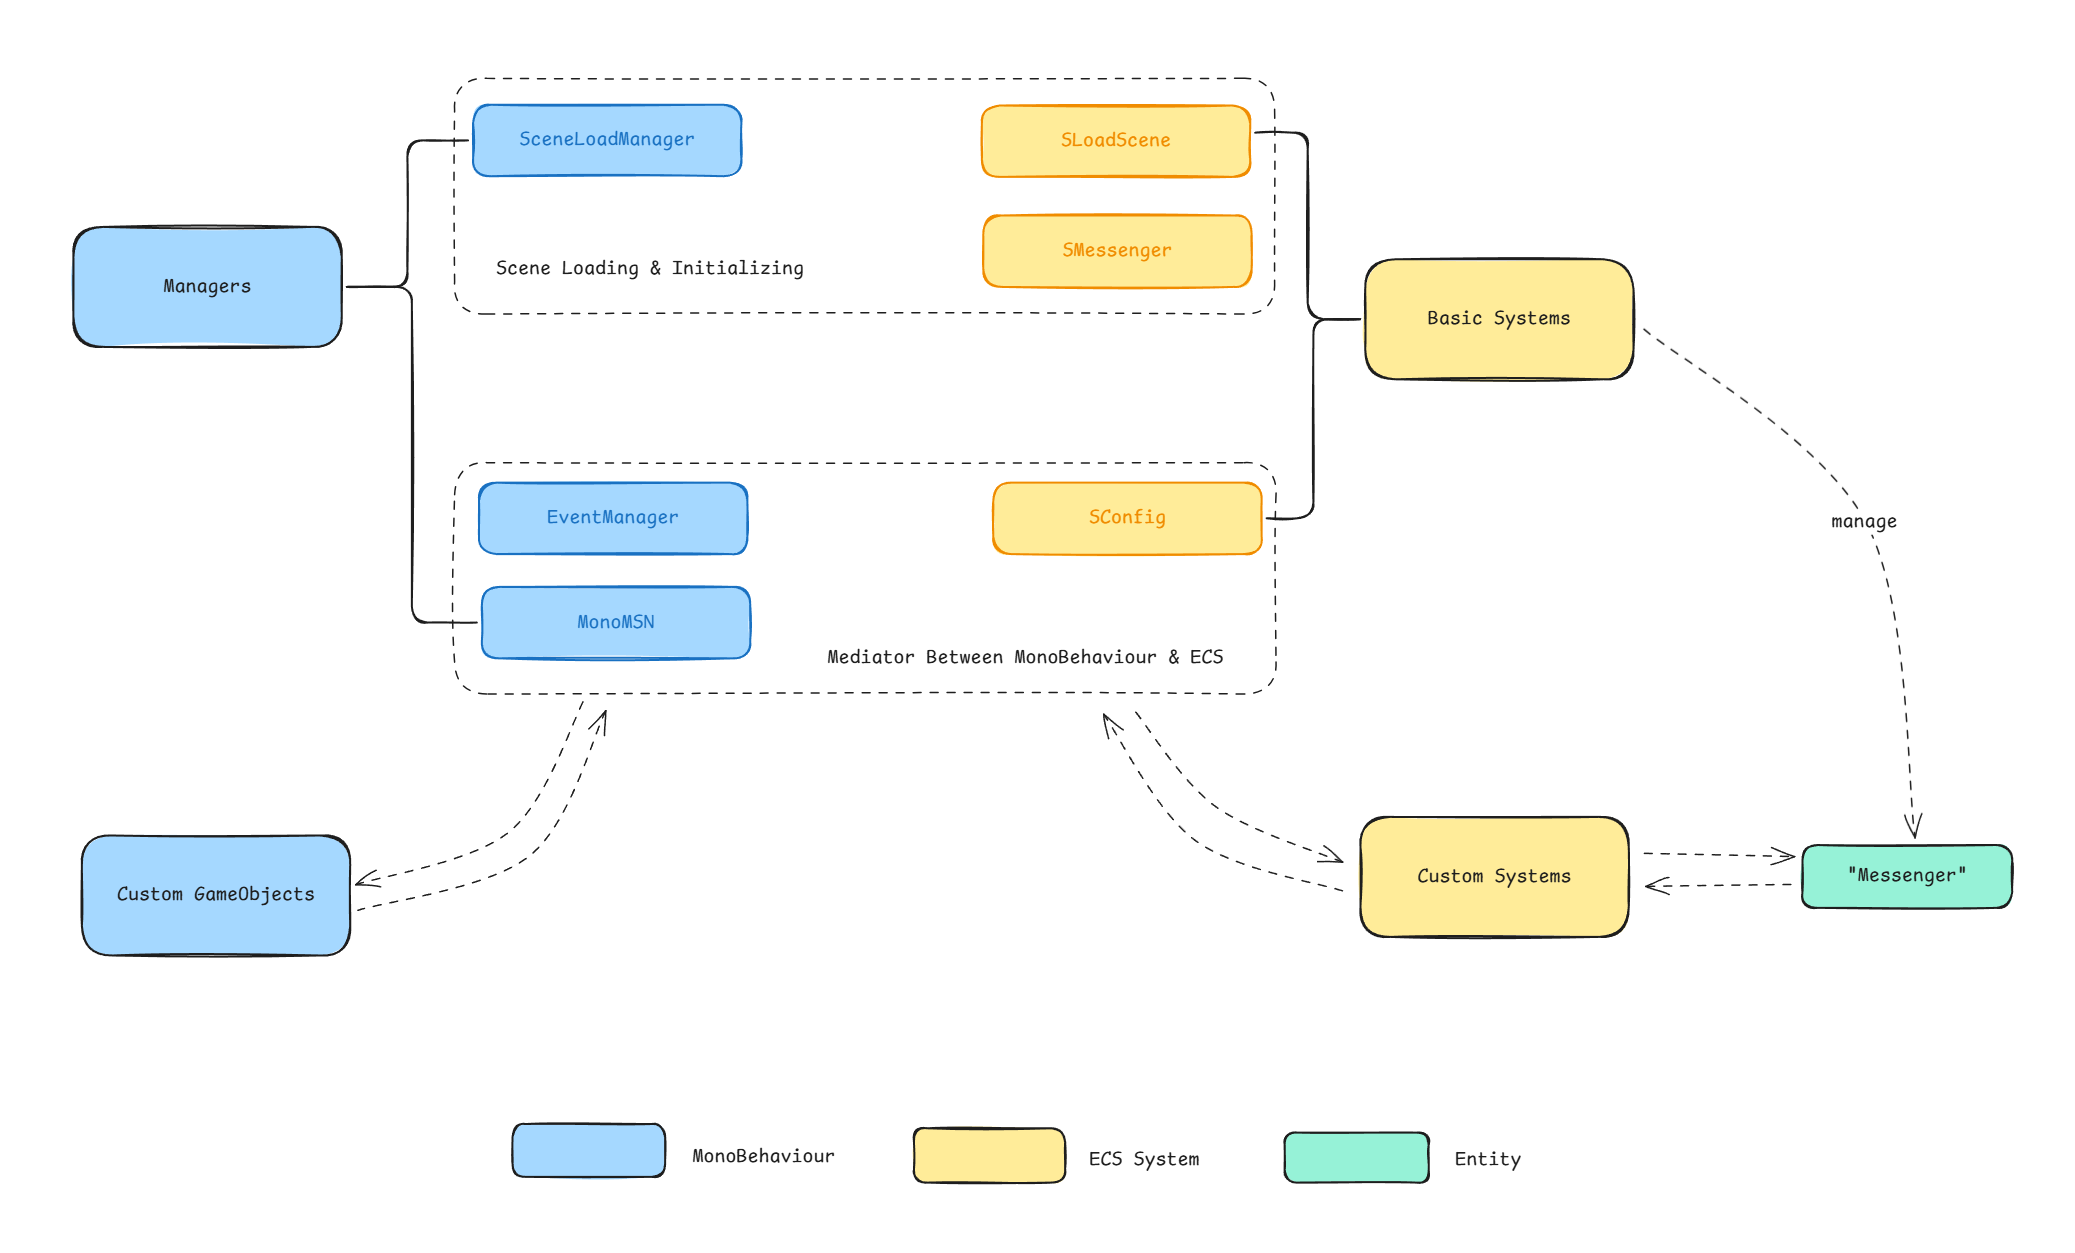
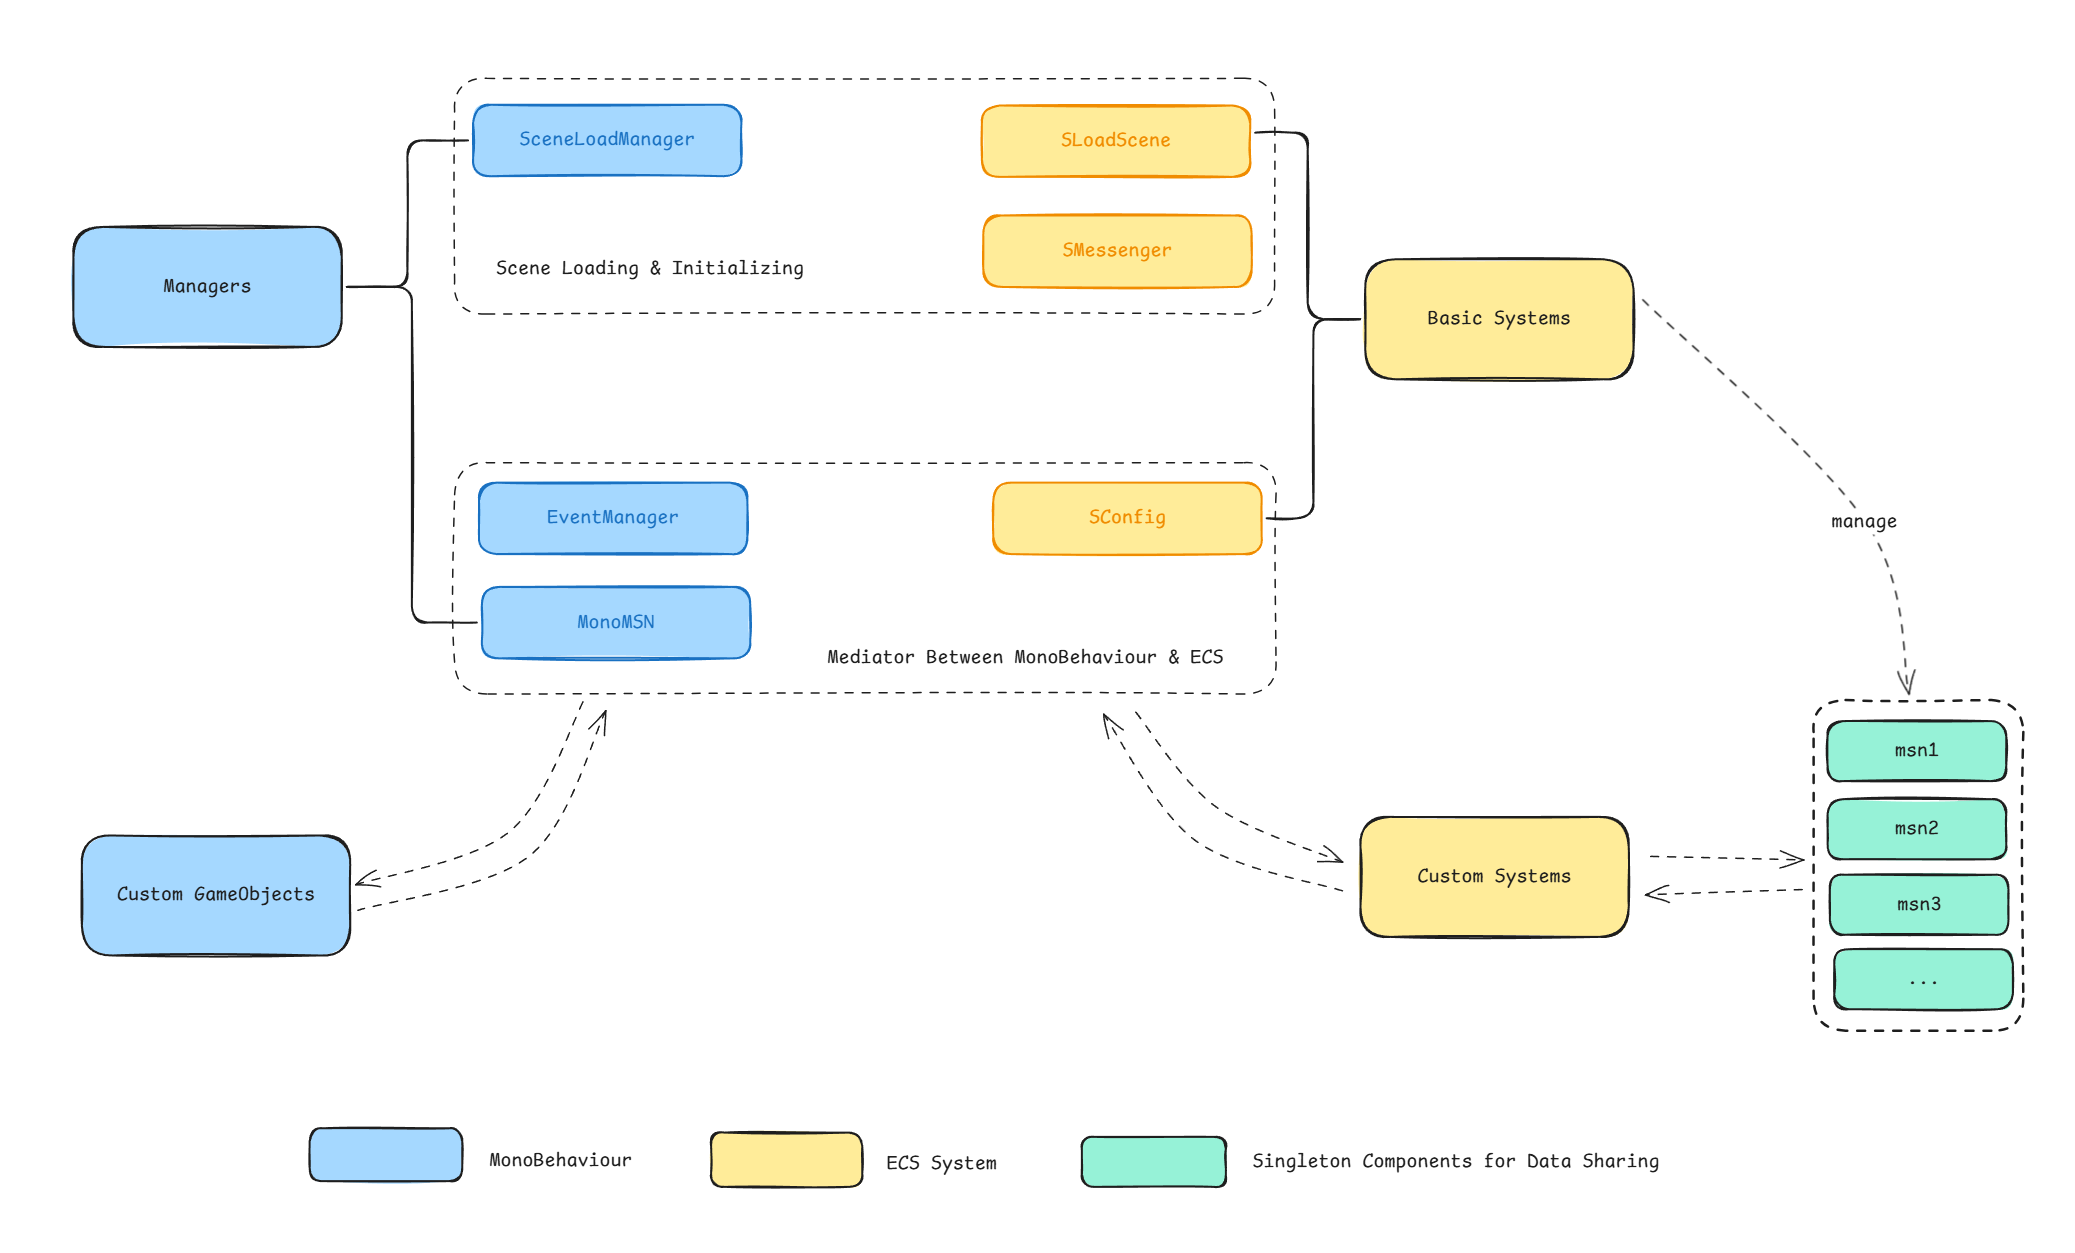
messenger to multiple singletons

Changed region(s): [[0.1234, 0.8715, 0.8019, 0.9649], [0.8328, 0.5291, 0.987, 0.8093]]

diff --git a/Assets/Script/Basic/BasicSystem/SMessenger.cs b/Assets/Script/Basic/BasicSystem/SMessenger.cs
@@ -1,5 +1,5 @@
 /*
-    This system is responsible for managing the centralized components attached to the msn entity.
+    This system is responsible for managing the centralized components.
     It's behavior includes:
         1. At the very beginning, it creates the msn entity and adds all centralized components to it.
            it also creates native collections for all centralize native collection components and add them to the msn entity.
@@ -13,7 +13,6 @@ namespace ECSFramework
 {
     public partial class SMessenger : SystemBase
     {
-        Entity msn;
         bool reset_or_add;
 
         bool onNewScene;
@@ -29,13 +28,13 @@ namespace ECSFramework
 
             initializedFlag = EntityManager.CreateEntity();
 
-            // add centralized components that doesn't need to be reset on new scene
-            msn = EntityManager.CreateEntity
-            (typeof(Messenger), typeof(SystemResetMSN),
-            typeof(EcbMSN), typeof(InputMSN));
-
-            // add all centralized native collection components
+            // create centralized components that doesn't need to be reset on new scene
             EntityCommandBuffer ecb = new(Allocator.Temp);
+            CreateSingleton<SystemResetMSN>(ref ecb);
+            CreateSingleton<EcbMSN>(ref ecb);
+            CreateSingleton<InputMSN>(ref ecb);
+
+            // create centralized native collection components
             BatchProcessCollection(State.OnInitialize, ref ecb, default, default);
             ecb.Playback(EntityManager);
 
@@ -46,9 +45,9 @@ namespace ECSFramework
             // register event on new scene load
             BasicEventManager.singleton.questLoadScene += OnLoadScene;
 
+
             // set up monoMSN
             MonoMSN.singleton.entityManager = EntityManager;
-            MonoMSN.singleton.msn = msn;
             MonoMSN.singleton.basicEventRegistered = true;
         }
 
@@ -63,9 +62,9 @@ namespace ECSFramework
         protected override void OnUpdate()
         {
             // Turn off Reset-System Flag
-            if (SystemAPI.HasComponent<SystemResetMSN>(msn))
+            if (SystemAPI.TryGetSingletonEntity<SystemResetMSN>(out var systemResetMSN))
             {
-                SystemAPI.SetComponentEnabled<SystemResetMSN>(msn, false);
+                SystemAPI.SetComponentEnabled<SystemResetMSN>(systemResetMSN, false);
             }
 
             // initialize/reset the msn entity on new scene
@@ -93,7 +92,8 @@ namespace ECSFramework
             if (newSceneInitialized)
             {
                 newSceneInitialized = false;
-                SystemAPI.SetComponentEnabled<SystemResetMSN>(msn, true);
+                systemResetMSN = SystemAPI.GetSingletonEntity<SystemResetMSN>();
+                SystemAPI.SetComponentEnabled<SystemResetMSN>(systemResetMSN, true);
             }
         }
 
@@ -103,21 +103,31 @@ namespace ECSFramework
             AddOrResetComponent<InitCompleted>(ref ecb, reset_or_add);
         }
 
-        void AddOrResetComponent<T>(ref EntityCommandBuffer ecb, bool _reset_or_add) where T : unmanaged, IComponentData
+        void AddOrResetComponent<T>(ref EntityCommandBuffer ecb, bool _reset_or_create) where T : unmanaged, IComponentData
         {
-            if (!_reset_or_add)
-                ecb.AddComponent<T>(msn);
+            if (!_reset_or_create)
+                CreateSingleton<T>(ref ecb);
             else
+            {
+                var msn = EntityManager.CreateEntityQuery(typeof(T)).GetSingletonEntity();
                 ecb.SetComponent<T>(msn, new());
+            }
         }
 
         void ResetComponentEnable(ref EntityCommandBuffer ecb)
         {
             // !!! Reset any enablable centralized compoennts here !!!
         }
+
+        void CreateSingleton<T>(ref EntityCommandBuffer ecb) where T : unmanaged, IComponentData
+        {
+            var entity = ecb.CreateEntity();
+            ecb.AddComponent<T>(entity);
+        }
     }
-    
-    public struct InitCompleted : IComponentData { }
-    public struct Messenger : IComponentData { }
-    public struct SystemResetMSN : IComponentData, IEnableableComponent { }
 }
+
+public struct InitCompleted : IComponentData { }
+public struct Messenger : IComponentData { }
+public struct SystemResetMSN : IComponentData, IEnableableComponent { }
+

diff --git a/Assets/Script/Basic/BasicSystem/SMessenger.Collection.cs b/Assets/Script/Basic/BasicSystem/SMessenger.Collection.cs
@@ -31,16 +31,15 @@ namespace ECSFramework
             switch (state)
             {
                 case State.OnInitialize:
-                    ecb.AddComponent<T>(msn);
+                    CreateSingleton<T>(ref ecb);
                     break;
                 case State.OnNewScene:
-                    var component = EntityManager.GetComponentData<T>(msn);
-                    component.Reset();
-                    EntityManager.SetComponentData(msn, component);
+                    EntityManager.CreateEntityQuery(typeof(T)).TryGetSingletonRW<T>(out var singleton1);
+                    singleton1.ValueRW.Reset();
                     break;
                 case State.OnDestroy:
-                    component = EntityManager.GetComponentData<T>(msn);
-                    component.Dispose();
+                    EntityManager.CreateEntityQuery(typeof(T)).TryGetSingletonRW<T>(out var singleton2);
+                    singleton2.ValueRW.Dispose();
                     break;
             }
         }
@@ -51,16 +50,15 @@ namespace ECSFramework
             switch (state)
             {
                 case State.OnInitialize:
-                    ecb.AddComponent<T>(msn);
+                    CreateSingleton<T>(ref ecb);
                     break;
                 case State.OnNewScene:
-                    var component = EntityManager.GetComponentData<T>(msn);
-                    component.Reset(sceneConfig, sceneID);
-                    EntityManager.SetComponentData(msn, component);
+                    EntityManager.CreateEntityQuery(typeof(T)).TryGetSingletonRW<T>(out var singleton1);
+                    singleton1.ValueRW.Reset(sceneConfig, sceneID);
                     break;
                 case State.OnDestroy:
-                    component = EntityManager.GetComponentData<T>(msn);
-                    component.Dispose();
+                    EntityManager.CreateEntityQuery(typeof(T)).TryGetSingletonRW<T>(out var singleton2);
+                    singleton2.ValueRW.Dispose();
                     break;
             }
         }

diff --git a/Assets/System Templates.cs b/Assets/System Templates.cs
@@ -10,8 +10,6 @@
 // {
 //     public partial class XXXX : SystemBase
 //     {
-//         Entity msn;
-
 //         protected override void OnCreate()
 //         {
 //             // This system will not update until the scene transition is complete
@@ -20,14 +18,8 @@
 
 //         protected override void OnUpdate()
 //         {
-//             // Get the messenger singleton entity
-//             if (msn == Entity.Null)
-//             {
-//                 msn = SystemAPI.GetSingletonEntity<Messenger>();
-//                 return;
-//             }
-
 //             // Check if the system needs to reset its state for a new scene
+//             var msn = SystemAPI.GetSingletonEntity<SystemResetMSN>();
 //             if (SystemAPI.IsComponentEnabled<SystemResetMSN>(msn))
 //             {
 //                 // reset your system if needed 
@@ -54,9 +46,6 @@
 // {
 //     public partial struct XXXX : ISystem
 //     {
-//         Entity msn;
-
-
 //         [BurstCompile]
 //         void OnCreate(ref SystemState state)
 //         {
@@ -67,15 +56,8 @@
 //         [BurstCompile]
 //         void OnUpdate(ref SystemState state)
 //         {
-//             // Get the messenger singleton entity
-//             if (msn == Entity.Null)
-//             {
-//                 msn = SystemAPI.GetSingletonEntity<Messenger>();
-//                 return;
-
-//             }
-
 //             // Check if the system needs to reset its state for a new scene
+//             var msn = SystemAPI.GetSingletonEntity<SystemResetMSN>();
 //             if (SystemAPI.IsComponentEnabled<SystemResetMSN>(msn))
 //             {
 //                 // reset your system if needed 

diff --git a/Assets/Script/Basic/Event&State/MonoGameState.cs b/Assets/Script/Basic/Event&State/MonoGameState.cs
@@ -12,7 +12,6 @@ public class MonoMSN : IBasicManager
     public static MonoMSN singleton;
     public bool basicEventRegistered;
     public EntityManager entityManager;
-    public Entity msn;
 
     public Dictionary<EntityQueryDesc, EntityQuery> queryMap;
 

diff --git a/README.md b/README.md
@@ -23,12 +23,12 @@ Systems aren't as flexible as MonoBehaviours for reacting to events, but I would
 The framework provides minimal, basic MonoBehaviour managers and ECS systems, making it easy to understand and modify.
 
 The framework has the following features:
-- It uses the _**Observer Pattern**_ for communication between MonoBehaviours and ECS systems.
-- It manages and utilizes a singleton entity **"Messenger"** for passing data between ECS systems.
+- It uses the _**Observer Pattern** for communication between MonoBehaviours and ECS systems.
+- It manages and utilizes a list of singleton entities **"Messenger (MSN)"** for passing data between ECS systems.
 
 ## Communication Between MonoBehaviour and ECS
 
-Although it's not recommended to interrupt the ECS process with events, the _**Observer Pattern**_ is still valuable for the separation it creates between requesters and responders.
+Although it's not recommended to interrupt the ECS process with events, the **Observer Pattern** is still valuable for the separation it creates between requesters and responders.
 
 To send data and requests from ECS systems to monobehaviour class is simple. 
 
@@ -76,8 +76,8 @@ This is the execution order I recommand:
 > When you make structural changes, some state is only updated at the end of the frame. That's why I put the `Create/Destroy Entities` group at the last step. But for the sake of intuition, let's start with `Handle User Input`.
 > 
 
-1. **Handle User Input**: These are systems that handle input from keyboards, UI buttons, etc. Typically, they communicate with UI GameObjects using the _**Observer Pattern**_ mentioned earlier.
-2. **Create/Destroy Entities**: This is the "factory" of the ***Factory Pattern***. They recieve request from other systems via the `Messenger` and do the work. Here the `ChangeMSN` acts as the flag for the ***Single-Frame Pattern***. It's turn off at the begining of the step. If any of the following systems makes a change, it's turn on to trigger the systems in `Update On Change` 
+1. **Handle User Input**: These are systems that handle input from keyboards, UI buttons, etc. Typically, they communicate with UI GameObjects using the **Observer Pattern** mentioned earlier.
+2. **Create/Destroy Entities**: This is the "factory" of the ***Factory Pattern***. They recieve request from other systems and do the work. Here the `ChangeMSN (one of the Messenger singletons)` acts as the flag for the ***Single-Frame Pattern***. It's turn off at the begining of the step. If any of the following systems makes a change, it's turn on to trigger the systems in `Update On Change` 
 3. **Update On Change**: These systems do heavy work, such as rebuilding the pathfinding map or rebuilding the quad tree, so they should only update when there's a relevant change.
 4. **Regular Update**: These systems update every frame. For example, the translation system, time system, etc.
 
@@ -153,7 +153,7 @@ When switching "scenes," a 4-step process occurs:
 1. Destroy the old GameObjects and instantiate the new ones.
 2. Unload the old `subscene_file_for_this_scene` and load the new one.
 3. Destroy all entity instances that were part of the old scene but were instantiated from prefabs in a persistent subscene such as the `subscene_file_for_prefabs`
-4. Reset all data in the ECS systems and the `Messenger`, applying any configuration from the new scene. 
+4. Reset all data in the ECS systems and the `Messengers`, applying any configuration from the new scene. 
 
 In my framework, this is handled by:
 - `SceneLoadManager` :  A MonoBehaviour class that takes care of step 1.
@@ -188,10 +188,16 @@ Frequently, you need to share data among systems. For example:
 - Maps
 - Requests for other systems
 
-The most staightforward way is to create a singleton entity for each "type" of information, as implemented in the official [*ECSGalaxySample*](https://github.com/Unity-Technologies/ECSGalaxySample/tree/main). However, each singleton occupies a 16KB-sized chunk, and this can add up to a significant memory load. Furthermore, managing multiple singletons during a scene transition is cumbersome. Therefore, I recommend attaching all shared components to a single entity: the `Messenger`.
+Whether the data are stored in collections make a significant difference in managing.
 
-The `SMessenger` is a system that manage the `Messenger` entity.
-1. After switched to a new scene, it reset all components attached to the `Messenger`. 
+As is brought out in this [discussion](https://discussions.unity.com/t/my-minimal-ecs-framework/1652529/4), you can do it in this way:
+- For MSNs without native collections, the most straight foward way is to attach each component on a gameobject and put them inside the `subscene_file_for_this_scene`.
+- For MSNs with native collections, you can create a system for each MSN which manage their creating and disposal. Then you attach the component to the system's associated entity, as shown in the [Unity official manual](https://docs.unity3d.com/Packages/com.unity.entities@1.0/manual/systems-data.html).
+
+This framework use a different way to minize boilerplates. It use one system to handle all MSNs, so that after you create a MSN, you just need to add one line, instead of creating a authoring class or a new system.  
+
+The `SMessenger` is a system that manage the MSN singletons.
+1. After switched to a new scene, it reset all MSNs. 
 2. It pauses and resumes custom systems by adding and removing a flag component, like `InitCompleted`, during the scene transition.
 3. Additionally, it triggers custom systems to reset their internal fields using the ***Single-frame Flag Pattern*** with the `SystemResetMSN` as a flag.
 
@@ -209,7 +215,7 @@ void AddOrResetComponents(ref EntityCommandBuffer ecb)
 
 #### Components with Native Collections
 
-However, sometimes you need to use a collection for sharing data, such as a queue of requests for other systems or a 2D map of obstacles. For this, we can consider `DynamicBuffer` or a component with a `NativeCollection`. Most of the time, a `NativeCollection` is more useful due to its flexibility. The main thing we need to worry about is managing their creation and disposal.
+For components with collections, such as a queue of requests for other systems or a 2D map of obstacles, we can consider `DynamicBuffer` or a component with a `NativeCollection`. Most of the time, a `NativeCollection` is more useful due to its flexibility. The main thing we need to worry about is managing their creation and disposal.
 
 Another part of the `SMessenger` system is responsible for managing components that contain `NativeCollection` types. Your custom components need to implement one of these interfaces:
 - `ISceneRelatedNativeCollectionComponent` For when the `NativeCollection` needs information from the new scene for initialization (e.g., a 2D map needs to know the world size).
@@ -244,13 +250,6 @@ public partial class XXXX : SystemBase
 
 	protected override void OnUpdate()
 	{
-		// Get the messenger singleton entity
-		if (msn == Entity.Null)
-		{
-			msn = SystemAPI.GetSingletonEntity<Messenger>();
-			return;
-		}
-
 		// Check if the system needs to reset its state for a new scene
 		if (SystemAPI.IsComponentEnabled<SystemResetMSN>(msn))
 		{
@@ -262,11 +261,11 @@ public partial class XXXX : SystemBase
 }
 ```
 
-You can then read from and write to the components on the `msn` entity using `SystemAPI` to share data with other systems.
-
 ## To Be Improved
 
 - **Save/Load module**: A save/load system would likely need to be inserted into the scene transition process, executing between the `SLoadScene` and `SMessenger` systems.
+- **Animation**
+- **UI Toolkit**
 
 
 
